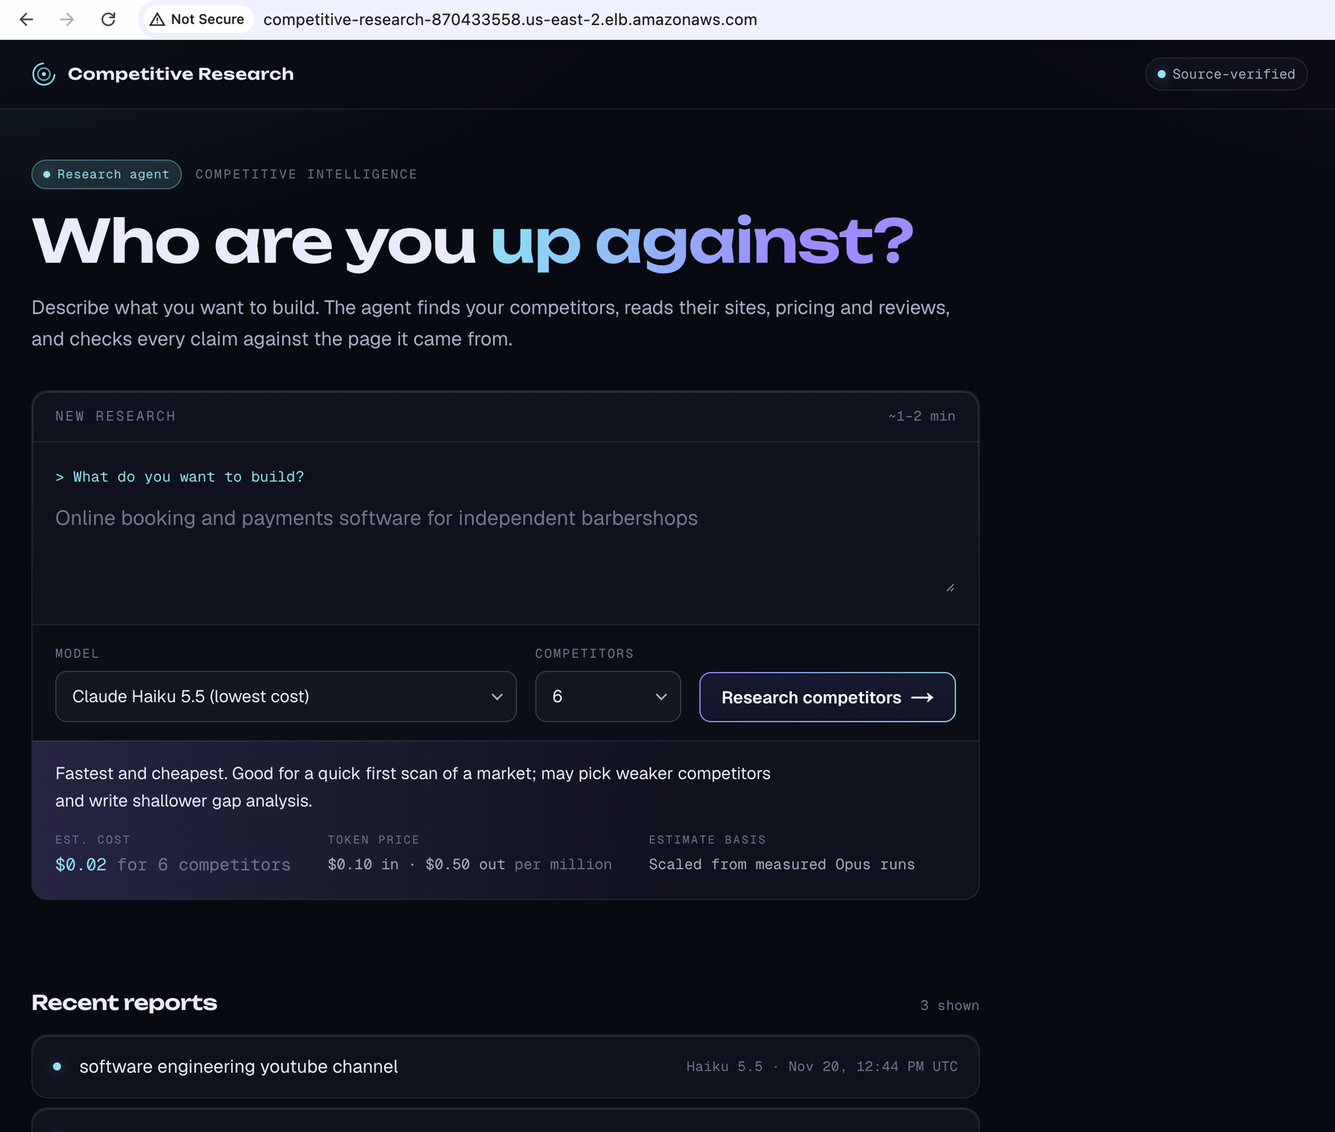
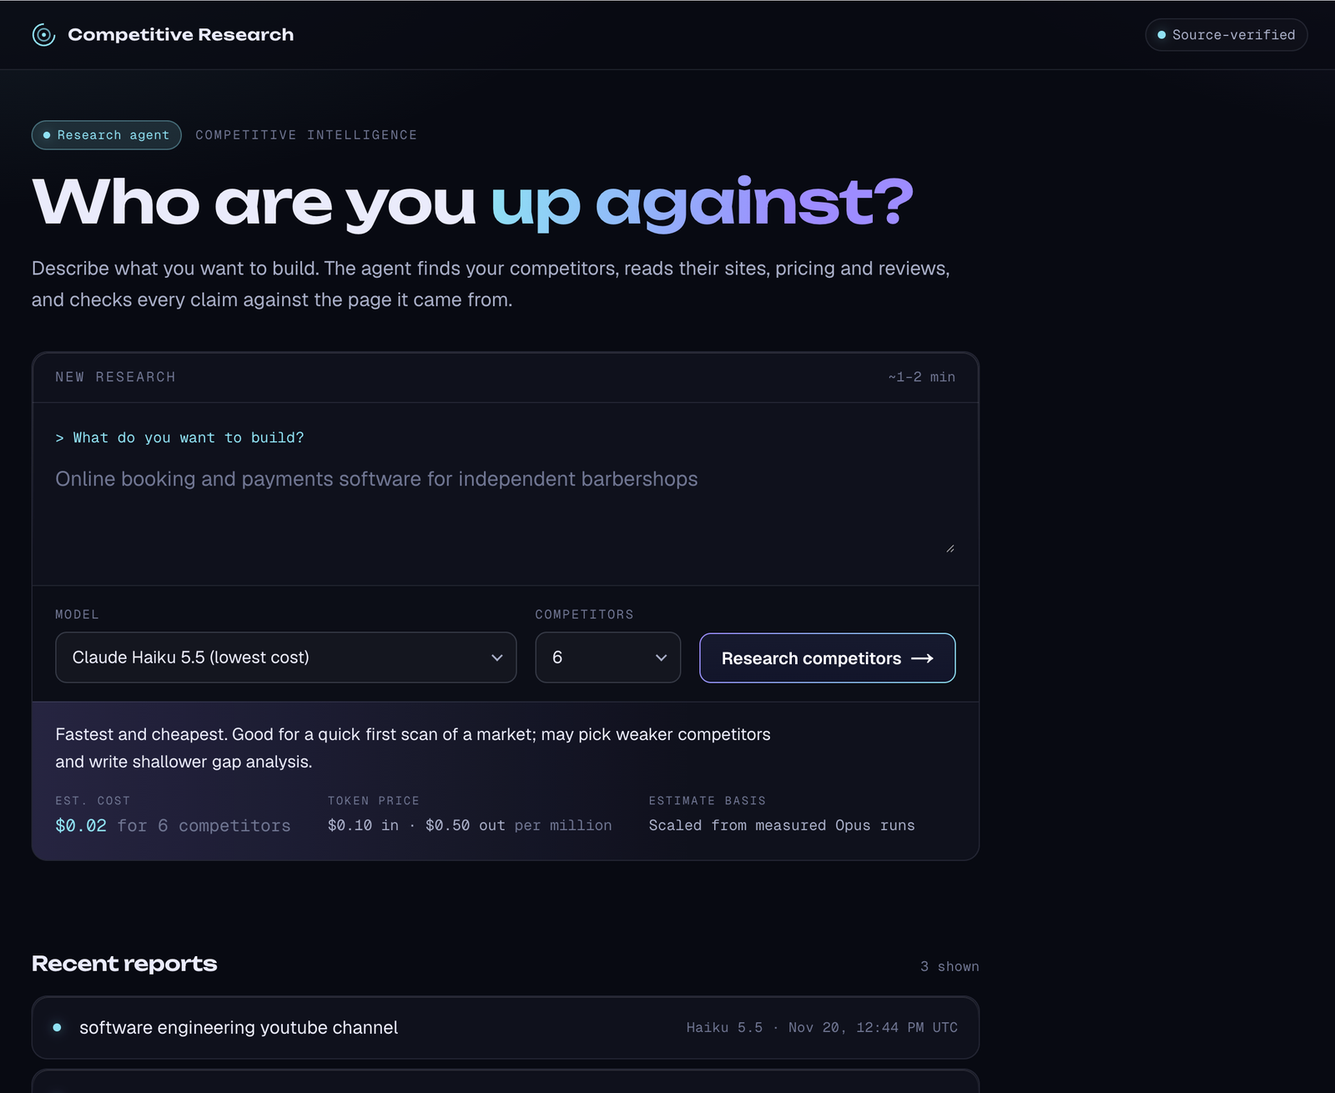
README: lead with the research form, reorder sections
- Intro shows the research form (address bar cropped) instead of a report;
  the report screenshot moves into the deployment gallery
- At-a-glance reordered by importance, eval numbers as plain percentages
- Section order: problem, how it works, decisions, AWS, MCP, evaluation,
  then testing, quick start, limitations, repository map
- MCP section shows the installed connector first
- Decisions table and deep dives merged into one section

diff --git a/README.md b/README.md
@@ -1,8 +1,9 @@
 # Competitive Research Agent with Claude, LangGraph and Source Verification
 
-An agent that researches the competition for a business idea. It finds competitors, reads their websites, pricing pages and customer reviews, and returns a report in which every claim cites the page it came from and a verbatim quote. Code checks each quote against the fetched page, and anything that can't be confirmed is flagged instead of presented as fact. The report ends with market gaps, and each gap may only cite verified evidence.
+An AI agent that researches the competitors of a business idea and backs every claim with a verbatim quote from the page it came from. Code checks each quote against the source before it reaches the report, and anything it can't confirm is flagged instead of presented as fact.
 
-The hard part isn't calling a model. It's making the output trustworthy enough to act on: verification that the model can't talk its way past, an eval that measures whether the citations actually hold up, and a pipeline that runs for one to two minutes per report without blocking anyone.
+![The research form served from AWS: describe an idea, pick a model and a number of competitors](docs/screenshots/aws-app-home.png)
+<sub>The app on the AWS deployment. Describe what you want to build, then pick a model and how many competitors to research. The hint shows the model's strengths and estimated cost before anything runs.</sub>
 
 **Stack:** Python · FastAPI · LangGraph · Claude API (Haiku / Sonnet / Opus 5.5) · Exa · Celery · Redis · PostgreSQL · SQLAlchemy · Alembic · Next.js 16 · TypeScript · MCP · Langfuse · Docker · Terraform · AWS (ECS Fargate, RDS, ALB, ECR, Secrets Manager, Cloud Map, CloudWatch)
 
@@ -10,82 +11,56 @@ The hard part isn't calling a model. It's making the output trustworthy enough t
 
 | | |
 | --- | --- |
-| **What it does** | Turns "what I want to build" into a sourced competitor report: products, pricing, positioning, customer praise and complaints, and market gaps. |
-| **Trust mechanism** | Every claim carries a URL and a verbatim quote. Code confirms the quote is on that page. Gap analysis only sees confirmed facts. |
-| **Evaluation** | 15 human-reviewed cases. Citation support 0.555, quote-found rate 0.989, competitor recall 0.568, all gaps grounded. Judged by Claude Sonnet 5.5. |
+| **What it does** | Turns "what I want to build" into a sourced competitor report: products, pricing, positioning, customer praise and complaints, and market gaps with advice on how to stand out. |
+| **Why it's trustworthy** | Every claim carries a URL and a verbatim quote, and code confirms the quote is on that page. Market gaps may only cite confirmed facts. |
+| **Measured** | A 15-case eval with human-reviewed cases. 99% of quotes are found on their cited page. 56% of claims are fully supported by their quote, as judged by a second model. 57% of expected competitors are found. 100% of gaps cite verified evidence. |
+| **Deployed** | AWS ECS Fargate (arm64), RDS PostgreSQL and an ALB: 29 resources, all from Terraform, with one-command deploy and teardown. |
 | **Interfaces** | Web app, REST API, MCP server (used from Claude Desktop) and CLI. |
-| **Cost control** | Model picker with per-model capability and cost hints, cheapest by default. A 6-competitor report costs about $0.02 on Haiku (estimated) and $0.94 on Opus (measured). |
-| **Tests** | 38 offline tests (Claude, Exa and Postgres faked). Free to run. |
-| **Deployed** | AWS ECS Fargate (arm64), RDS PostgreSQL and an ALB, all from Terraform: 29 resources, one-command deploy and teardown. |
-
-![A report served from AWS: source check, every claim verified, evidence-backed market gaps](docs/screenshots/aws-app-report.png)
-<sub>A report served from the AWS deployment. Each segment of the strip is one claim. Cyan means its quote was found word for word on the cited page; hatched amber means it couldn't be confirmed.</sub>
+| **Cost control** | A model picker shows each model's strengths and cost; the cheapest is the default. A 6-competitor report costs about $0.02 on Haiku (estimated) and $0.94 on Opus (measured). |
+| **Tests** | 38 offline tests, with Claude, Exa and Postgres faked. Free to run. |
 
 ## Contents
 
 - [The problem](#the-problem)
-- [Quick start](#quick-start)
-- [Architecture](#architecture)
+- [How it works](#how-it-works)
 - [Key decisions and trade-offs](#key-decisions-and-trade-offs)
-- [Engineering decisions](#engineering-decisions)
-- [Evaluation](#evaluation)
-- [What testing caught](#what-testing-caught)
-- [Testing](#testing)
-- [Observability](#observability)
 - [Deployment on AWS](#deployment-on-aws)
 - [Using it from Claude (MCP)](#using-it-from-claude-mcp)
+- [Evaluation](#evaluation)
+- [What testing caught](#what-testing-caught)
+- [Testing and observability](#testing-and-observability)
+- [Quick start](#quick-start)
 - [Limitations and next steps](#limitations-and-next-steps)
 - [Repository map](#repository-map)
 
-Full operating instructions are in [docs/RUNNING.md](docs/RUNNING.md).
-
 ## The problem
 
-Anyone starting a business, a product or a channel needs to know who they're up against, what those competitors charge, and where the openings are. Doing it properly takes days of searching and reading. A chatbot answers in seconds, but it invents details and rarely shows where a claim came from, so the answer isn't something to spend money on.
+Anyone starting a business, a product or a channel needs to know who they're up against, what those competitors charge, and where the openings are. Doing it properly takes days of searching and reading. A chatbot answers in seconds, but it invents details and rarely shows where a claim came from.
 
-Asking the model to "cite sources" doesn't solve this. A model can attach a real URL to a claim the page never makes, or paraphrase a page into something stronger than what it says. The citation has to be checked by something other than the model that wrote it.
+Asking the model to "cite sources" doesn't fix this. A model can attach a real URL to a claim the page never makes, or paraphrase a page into something stronger than what it says. The citation has to be checked by something other than the model that wrote it. The hard part is making the output trustworthy enough to act on, not calling a model.
 
-## Quick start
-
-```bash
-cp .env.example .env              # set ANTHROPIC_API_KEY and EXA_API_KEY
-docker compose up -d --build      # Postgres, Redis, API, worker, web, MCP
-```
-
-| URL | What's there |
-| --- | --- |
-| http://localhost:3001 | Web app: start research, follow progress, read reports |
-| http://localhost:8000/docs | API docs |
-| http://localhost:8001/mcp | MCP server |
-
-```bash
-docker compose run --rm api python -m pytest -q tests    # 38 tests, no API keys needed
-```
-
-Each research run calls Claude and Exa. With the default model, Haiku 5.5, a 6-competitor report is estimated at about two cents.
-
-## Architecture
+## How it works
 
 ![Architecture](docs/diagrams/architecture.svg)
+
+A research run takes 1–2 minutes, so the API queues it and returns right away. A Celery worker runs a LangGraph agent in five steps:
+
+1. **Plan.** Claude writes 3–5 search queries that describe what a competitor would look like.
+2. **Find.** Exa's company search returns candidates, de-duplicated by domain. Claude picks the real competitors. Any URL that wasn't in the search results is dropped, so the model can't invent a company.
+3. **Research, in parallel.** For each competitor, Exa fetches the homepage, the pricing and feature pages, and third-party reviews from G2, Capterra, TrustRadius, Trustpilot, Product Hunt and Reddit. A review page counts only if it names the company. Claude extracts claims and price plans as Pydantic structured outputs, each with a source URL and a verbatim quote.
+4. **Verify.** Code checks every quote against the cited page's text. Prices must also have their numbers in the quote.
+5. **Analyze gaps.** Claude sees only verified claims, each with an ID, and must cite IDs for every gap. Unknown or unverified IDs are removed in code. A gap left with no evidence is shown as unconfirmed.
 
 | Component | Role |
 | --- | --- |
 | **Web app** (`web/`) | Next.js 16 and TypeScript. Server components read from the API. The browser goes through a `/api` proxy, so it never needs the backend's address. |
 | **API** (`src/app/routes/`) | FastAPI. `POST /research` returns 202 with a run ID. `GET /research/{id}` returns status, step-by-step progress and, when done, the report. `GET /models` serves the model list. |
-| **Worker** (`src/app/tasks.py`) | Celery. Runs the agent, writes progress to Postgres after every graph step and saves the finished report. Acknowledges tasks late, so a crashed worker's run is redelivered. A finished run is never redone. |
-| **Agent** (`src/app/research/pipeline.py`) | LangGraph: plan → find competitors → research each competitor in parallel → verify → analyze gaps. |
+| **Worker** (`src/app/tasks.py`) | Celery. Writes progress to Postgres after every graph step and saves the report. Acknowledges tasks late, so a crashed worker's run is redelivered. A finished run is never redone. |
+| **Agent** (`src/app/research/pipeline.py`) | The LangGraph graph above, with a parallel branch per competitor. |
 | **Verification** (`src/app/research/verify.py`) | Deterministic quote matching against the fetched page text. |
 | **Storage** (`src/app/models.py`) | PostgreSQL via SQLAlchemy 2 and Alembic. Six tables: reports, competitors, sources, claims, price plans and market gaps. Claims link to their stored source page. |
-| **Page cache** (`src/app/research/cache.py`) | Redis cache of fetched pages (24 h). Repeat research skips repeat Exa requests. If Redis is down, pages are fetched directly. |
-| **MCP server** (`src/app/mcp_server.py`) | Five tools over the same HTTP API, so it gets the same validation as the web app. |
-
-### How a report is built
-
-1. **Plan.** Claude writes 3–5 search queries that describe what a competitor would look like.
-2. **Find.** Exa's company search returns candidates, de-duplicated by domain. Claude picks the real competitors. Any URL that wasn't in the search results is dropped, so the model can't invent a company.
-3. **Research, in parallel.** For each competitor, Exa fetches the homepage, the pricing and feature pages, and third-party reviews from G2, Capterra, TrustRadius, Trustpilot, Product Hunt and Reddit. A review page counts only if it names the company. Claude extracts claims and price plans with Pydantic structured outputs, each with a source URL and a verbatim quote.
-4. **Verify.** Code checks every quote against the cited page's text. Prices must also have their numbers in the quote.
-5. **Analyze gaps.** Claude sees only verified claims, each with an ID, and must cite IDs for every gap. Unknown or unverified IDs are removed in code. A gap left with no evidence is shown as unconfirmed.
+| **Page cache** (`src/app/research/cache.py`) | Redis cache of fetched pages (24 h), so repeat research skips repeat Exa requests. If Redis is down, pages are fetched directly. |
+| **MCP server** (`src/app/mcp_server.py`) | Five tools over the same HTTP API, with the same validation as the web app. |
 
 ## Key decisions and trade-offs
 
@@ -94,24 +69,22 @@ Each research run calls Claude and Exa. With the default model, Haiku 5.5, a 6-c
 | Verify quotes in code by normalized substring match | Asking the model whether its own citations are right | Deterministic, free and auditable. A model grading itself can be persuaded; a string match can't. |
 | Gap analysis sees only verified claims, with IDs checked in code | Free-form analysis over everything extracted | Every conclusion traces to a confirmed quote. Invented evidence IDs are removed, not trusted. |
 | LangGraph with `Send` fan-out, one branch per competitor | A sequential loop | Competitors are researched in parallel. One failed site doesn't sink the report. Graph updates drive the per-step progress UI. |
-| Async runs (Celery) with progress in Postgres | One long HTTP request | Runs take 1–2 minutes. Clients poll a cheap `GET`, and progress survives API restarts. |
+| Async runs (Celery) with progress in Postgres | One long HTTP request | Clients poll a cheap `GET`, and progress survives API restarts. |
 | Pydantic structured outputs | Parsing JSON out of prose | Responses validate against the schema or fail loudly. No regex repair. |
-| A single model list, cheapest model by default | One hard-coded model | Haiku costs about 1/40 of Opus per competitor. Users choose quality against cost, with the trade-off shown before they run. |
+| A single model list, cheapest model by default | One hard-coded model | Haiku costs about 1/40 of Opus per competitor. Users weigh quality against cost before they run. |
 | A different model (Sonnet 5.5) judges citations in the eval | The agent's own model | Avoids the model grading its own work. |
 | MCP server calls the HTTP API | MCP reading the database directly | One code path with the same validation, and the MCP server holds no credentials. |
 | Fargate in public subnets, IP-restricted ALB, no NAT gateway | Private subnets with NAT, plus a login | A short-lived demo for about $0.15/hour. The IP allow-list stands in for authentication; see [Limitations](#limitations-and-next-steps). |
 
-## Engineering decisions
-
 ### Verification the model can't argue with
 
-`verify.find_quote` normalizes both the quote and the page text before matching. It lowercases, decodes HTML entities, removes Markdown and link syntax, unifies curly quotes and dashes, and collapses whitespace. Quotes may skip text with `...`, as long as the fragments appear in order. Quotes under 12 characters can't be verified, so a vague one-word quote can't pass. Each claim keeps a note explaining why it passed or failed, for example `quote not found on cited page` or `cited page was not fetched`.
+`verify.find_quote` normalizes both the quote and the page text before matching. It lowercases, decodes HTML entities, removes Markdown and link syntax, unifies curly quotes and dashes, and collapses whitespace. Quotes may skip text with `...`, as long as the fragments appear in order. Quotes under 12 characters can't be verified, so a vague one-word quote can't pass. Each claim keeps a note explaining why it passed or failed, for example `quote not found on cited page`.
 
 The check proves a quote **exists** on the page. It doesn't prove the quote **supports** the claim. That gap is what the eval measures.
 
 ### Model choice without surprise bills
 
-`src/app/research/models.py` is the single list of models. The API, worker, MCP server, CLI, eval runner and web app all read from it. Each model has a capability hint, token prices and a cost per competitor. The Opus figure is measured from the eval baseline; Haiku and Sonnet are scaled by price and labelled as estimates in the UI. The chosen model is stored on the run and applied through a context variable, which LangGraph copies into its worker threads, so every parallel branch uses it. A test checks this.
+`src/app/research/models.py` is the single list of models. The API, worker, MCP server, CLI, eval runner and web app all read from it. The Opus cost is measured from the eval baseline; Haiku and Sonnet are scaled by price and labelled as estimates in the UI. The chosen model is stored on the run and applied through a context variable, which LangGraph copies into its worker threads, so every parallel branch uses it. A test checks this.
 
 Claude Haiku 5.5 has no server-side refusal fallback, and sending the fallback parameter to it returns a 400. Each model entry records whether it supports the fallback, and a test covers each model.
 
@@ -119,9 +92,74 @@ Claude Haiku 5.5 has no server-side refusal fallback, and sending the fallback p
 
 The worker streams the graph's updates (`stream_mode=["updates", "values"]`) and turns each finished node into a progress event. That includes one event per competitor branch, which the web app shows as "researching 3/6". Progress is written to Postgres, not held in memory, so any API instance can serve it.
 
+## Deployment on AWS
+
+![AWS deployment](docs/diagrams/aws.svg)
+
+| Concern | Choice |
+| --- | --- |
+| Compute | ECS Fargate, arm64 (Graviton). Four services: web, api, worker, redis |
+| Database | RDS PostgreSQL 17, `db.t4g.micro`, private; migrations run in an init container before the API starts |
+| Service discovery | Cloud Map private DNS (`api.research.internal`, `redis.research.internal`) |
+| Secrets | Secrets Manager, injected into containers at start |
+| Access | ALB on port 80, security group open to a single /32 |
+| Images | ECR; built for `linux/arm64` and pushed by `scripts/aws.sh` |
+| Cost | About $0.15/hour (list pricing); no NAT gateway |
+| Lifecycle | `scripts/aws.sh plan / apply / status / allow-ip / destroy`; no deletion protection or final snapshot, so teardown is clean |
+
+![ECS services running on Fargate](docs/screenshots/aws-ecs-services.png)
+
+<details>
+<summary>More from the deployment</summary>
+
+A finished report. Each segment of the strip is one claim: cyan means its quote was found word for word on the cited page, hatched amber means it couldn't be confirmed.
+
+![A report on AWS: source check and evidence-backed market gaps](docs/screenshots/aws-app-report.png)
+
+Competitor claims with sources:
+
+![Competitor claims on AWS](docs/screenshots/aws-app-competitors.png)
+
+The load balancer target is healthy:
+
+![ALB target health](docs/screenshots/aws-alb-target-health.png)
+
+RDS PostgreSQL:
+
+![RDS](docs/screenshots/aws-rds.png)
+
+The API service on ECS:
+
+![ECS api service](docs/screenshots/aws-ecs-api-service.png)
+
+API logs in CloudWatch:
+
+![CloudWatch logs](docs/screenshots/aws-cloudwatch-logs.png)
+
+</details>
+
+## Using it from Claude (MCP)
+
+The MCP server exposes `start_research`, `get_research`, `get_report`, `list_research` and `list_competitors`. Read-only tools are marked as such. The server's instructions tell Claude to confirm the model and cost with the user before starting a paid run, and to reuse existing reports.
+
+The agent installed as a local connector in Claude Desktop:
+
+![The competitive-research connector installed in Claude Desktop](docs/screenshots/claude-desktop-connector.png)
+
+Claude reading a report's market gaps through the connector and judging how strong the evidence behind each one is:
+
+![Claude Desktop reviewing a report's market gaps through MCP](docs/screenshots/claude-desktop-market-gaps.png)
+
+<details>
+<summary>More from Claude Desktop</summary>
+
+![Listing reports](docs/screenshots/claude-desktop-list-reports.png)
+
+</details>
+
 ## Evaluation
 
-Fifteen business ideas across B2B SaaS, dev tools, consumer, marketplace, vertical SaaS, hardware, fintech and health. Each has 3–5 well-known competitors that a good report should find, and each list was reviewed by a human. The runner calls the real agent and records cost, tokens and latency. Failed attempts go to an error log rather than being scored as zero, runs resume where they stopped, and the runner refuses to run if the eval code changes without re-approval.
+Fifteen business ideas across B2B SaaS, dev tools, consumer, marketplace, vertical SaaS, hardware, fintech and health. Each lists 3–5 well-known competitors that a good report should find, and each list was reviewed by a human. The runner calls the real agent and records cost, tokens and latency. Failed attempts go to an error log rather than being scored as zero, runs resume where they stopped, and the runner refuses to run if the eval code changes without re-approval.
 
 | Metric | What it measures | Baseline (Opus 5.5, 15 cases) |
 | --- | --- | --- |
@@ -152,7 +190,7 @@ Both are the next things to fix, and the eval can measure the improvement. Detai
 | AWS rejected a security-group description containing `>`, and the deploy wrapper hid the failed exit code | First `apply` | Fixed the description; the wrapper now propagates failures |
 | The organization's service control policy denies compute in every region except us-east-2 | Read-only checks across regions | Deploy to us-east-2 |
 
-## Testing
+## Testing and observability
 
 38 tests, all offline, with Claude and Exa faked and SQLite in place of Postgres:
 
@@ -165,70 +203,27 @@ Both are the next things to fix, and the eval can measure the improvement. Detai
 | MCP | All five tools through the real API; errors readable by clients; `start_research` never starts a paid run in tests |
 | Eval harness | Recall matching, judge scoring, cost maths, unapproved-harness refusal, failed attempts not scored as zero, resume |
 
-## Observability
+**Tracing:** self-hosted Langfuse (`docker compose --profile tracing up -d`) records one trace per run: a span per graph node, a generation per Claude call with token usage, and a tool span per Exa request.
 
-Self-hosted Langfuse (`docker compose --profile tracing up -d`) records one trace per research run: a span per graph node, a generation per Claude call with model and token usage, and a tool span per Exa request. Every run also stores a usage summary on the report itself: models, calls, tokens, Exa requests, latency and the trace link. In AWS, container logs go to CloudWatch.
+**Usage on every report:** each report also stores its own usage summary (models, calls, tokens, Exa requests, latency and the trace link).
 
-## Deployment on AWS
+**AWS logs:** in AWS, container logs go to CloudWatch.
 
-![AWS deployment](docs/diagrams/aws.svg)
+## Quick start
 
-| Concern | Choice |
+```bash
+cp .env.example .env              # set ANTHROPIC_API_KEY and EXA_API_KEY
+docker compose up -d --build      # Postgres, Redis, API, worker, web, MCP
+docker compose run --rm api python -m pytest -q tests    # 38 tests, no API keys needed
+```
+
+| URL | What's there |
 | --- | --- |
-| Compute | ECS Fargate, arm64 (Graviton). Four services: web, api, worker, redis |
-| Database | RDS PostgreSQL 17, `db.t4g.micro`, private; migrations run in an init container before the API starts |
-| Service discovery | Cloud Map private DNS (`api.research.internal`, `redis.research.internal`) |
-| Secrets | Secrets Manager, injected into containers at start |
-| Access | ALB on port 80, security group open to a single /32 |
-| Images | ECR; built for `linux/arm64` and pushed by `scripts/aws.sh` |
-| Cost | About $0.15/hour (list pricing); no NAT gateway |
-| Lifecycle | `scripts/aws.sh plan / apply / status / allow-ip / destroy`; no deletion protection or final snapshot, so teardown is clean |
+| http://localhost:3001 | Web app: start research, follow progress, read reports |
+| http://localhost:8000/docs | API docs |
+| http://localhost:8001/mcp | MCP server |
 
-![ECS services running on Fargate](docs/screenshots/aws-ecs-services.png)
-
-<details>
-<summary>More from the deployment</summary>
-
-The web app served from the load balancer:
-
-![Web app on AWS](docs/screenshots/aws-app-home.png)
-
-Competitor claims with sources:
-
-![Competitor claims on AWS](docs/screenshots/aws-app-competitors.png)
-
-The load balancer target is healthy:
-
-![ALB target health](docs/screenshots/aws-alb-target-health.png)
-
-RDS PostgreSQL:
-
-![RDS](docs/screenshots/aws-rds.png)
-
-The API service on ECS:
-
-![ECS api service](docs/screenshots/aws-ecs-api-service.png)
-
-API logs in CloudWatch:
-
-![CloudWatch logs](docs/screenshots/aws-cloudwatch-logs.png)
-
-</details>
-
-## Using it from Claude (MCP)
-
-The MCP server exposes `start_research`, `get_research`, `get_report`, `list_research` and `list_competitors`. Read-only tools are marked as such. The server's instructions tell Claude to confirm the model and cost with the user before starting a paid run, and to reuse existing reports.
-
-![Claude Desktop reviewing a report's market gaps through MCP](docs/screenshots/claude-desktop-market-gaps.png)
-
-<details>
-<summary>More from Claude Desktop</summary>
-
-![Connector installed](docs/screenshots/claude-desktop-connector.png)
-
-![Listing reports](docs/screenshots/claude-desktop-list-reports.png)
-
-</details>
+Each research run calls Claude and Exa. With the default model, Haiku 5.5, a 6-competitor report is estimated at about two cents. Full operating instructions are in [docs/RUNNING.md](docs/RUNNING.md): API, CLI, Claude Desktop setup, tracing, evals and the AWS deploy.
 
 ## Limitations and next steps
 
